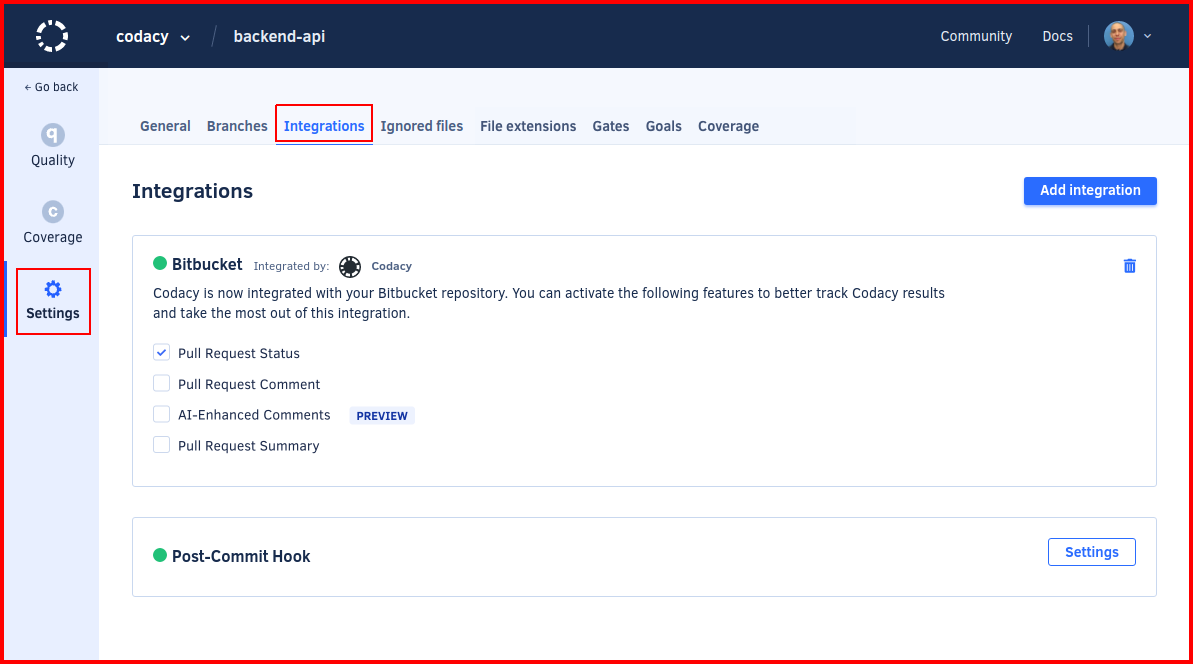
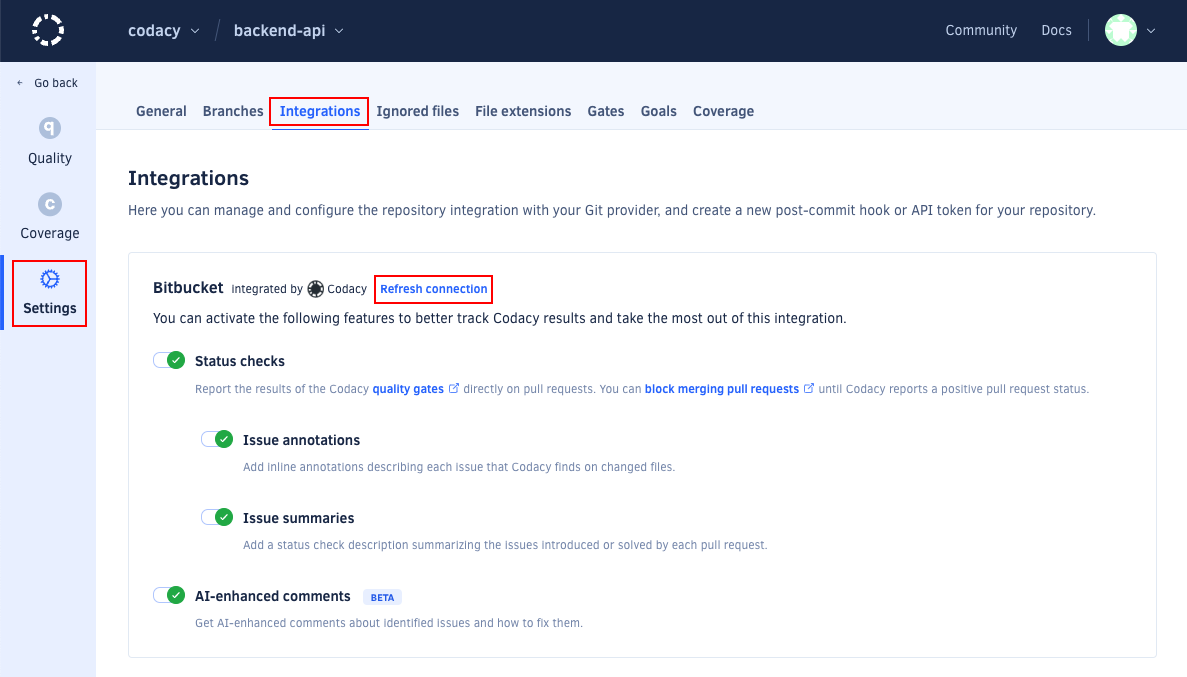
feat: Update option names and screenshots for Bitbucket interation

diff --git a/docs/repositories-configure/integrations/bitbucket-integration.md b/docs/repositories-configure/integrations/bitbucket-integration.md
@@ -8,7 +8,7 @@ The Bitbucket integration incorporates Codacy on your existing Git provider work
 
 When you add a new repository, Codacy sets the Bitbucket integration using the [default settings for your organization](../../organizations/integrations/default-git-provider-integration-settings.md). You can then [customize the settings](#configuring) for the repository.
 
-![Bitbucket integration](images/bitbucket-integration.png)<!--TODO CY-6642 Update screenshot-->
+![Bitbucket integration](images/bitbucket-integration.png)
 
 !!! important
     Codacy uses the Bitbucket user who added the repository to create comments on pull requests. If that user loses access to the repository, a repository admin must [refresh the Bitbucket integration](#refreshing).
@@ -25,7 +25,7 @@ Depending on the options that you enable, Codacy will automatically update pull 
     end="<!--default-settings-apply-all-end-->"
 %}
 
-### Pull Request Status
+### Status checks {: id="pull-request-status"}
 
 Adds a report to your pull requests showing whether your pull requests and coverage are up to standards or not as configured on the [quality gate rules](../../repositories-configure/adjusting-quality-gates.md) for your repository. You can then optionally [block merging pull requests that aren't up to standards](../../getting-started/integrating-codacy-with-your-git-workflow.md#blocking-pull-requests).
 
@@ -33,11 +33,19 @@ Adds a report to your pull requests showing whether your pull requests and cover
 
 ![Pull request status on Bitbucket](images/bitbucket-integration-pr-status.png)
 
-### Pull Request Comment
+### Issue annotations {: id="pull-request-comment"}
 
-Adds comments on the lines of the pull request where Codacy finds new issues. Click on the links to open Codacy and see more details about the issues and how to fix them.
+Adds comments on the lines of the pull request where Codacy finds new issues. Click on the links to open Codacy and see more details about the issues and how to fix them. To enable this option, you must enable **Status checks** first.
 
 ![Pull request comment on Bitbucket](images/bitbucket-integration-pr-comment.png)
+
+### Issue summaries {: id="pull-request-summary"}
+
+!!! note "This feature isn't available for Bitbucket Server"
+
+Shows an overall view of the changes in the pull request, including new issues and metrics such as complexity and duplication. To enable this option, you must enable **Status checks** first.
+
+![Pull request summary on Bitbucket](images/bitbucket-integration-pr-summary.png)
 
 ### AI-Enhanced Comments
 
@@ -46,14 +54,6 @@ Adds AI-enhanced comments with insights to help you fix identified issues.
 {% include-markdown "../../assets/includes/ai-info.md" %}
 
 ![AI-enhanced comment on GitLab](images/bitbucket-integration-ai-comment.png)
-
-### Pull Request Summary
-
-!!! note "This feature isn't available for Bitbucket Server"
-
-Shows an overall view of the changes in the pull request, including new issues and metrics such as complexity and duplication.
-
-![Pull request summary on Bitbucket](images/bitbucket-integration-pr-summary.png)
 
 ## Refreshing the Bitbucket integration {: id="refreshing"}
 
@@ -67,9 +67,9 @@ In this situation, another user with [administrator access to the repository](..
 
 1.  On the Bitbucket integration area, click the link **Refresh connection**.
 
-    ![Refresh Bitbucket integration](images/bitbucket-integration-refresh.png)<!--TODO CY-6642 Update screenshot-->
+    ![Refresh Bitbucket integration](images/bitbucket-integration-refresh.png)
 
-After refreshing the integration, Codacy will use the logged in Bitbucket user to create comments on pull requests.
+After refreshing the integration, Codacy will use the logged in Bitbucket user to create comments on new pull requests.
 
 ## See also
 
